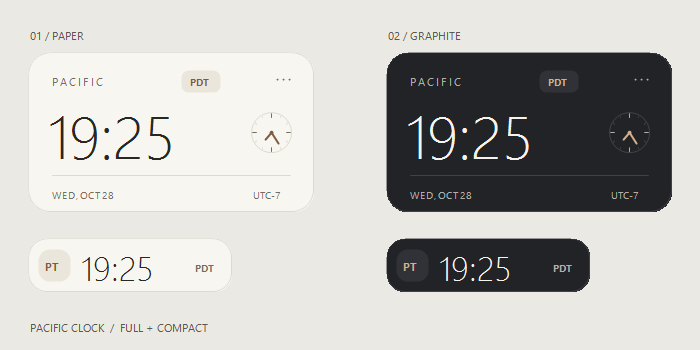
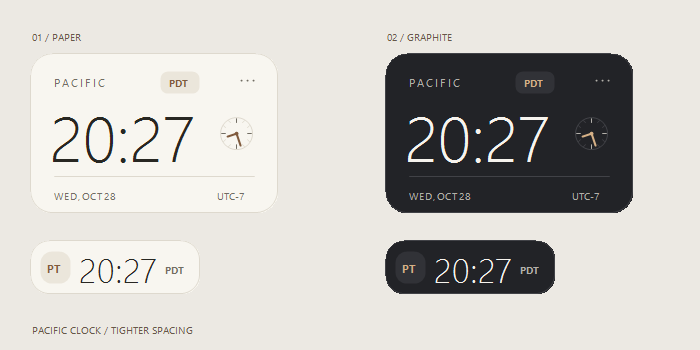
Tighten clock spacing and narrow both layouts

diff --git a/skills/pacific-clock/assets/source/PacificClock.cs b/skills/pacific-clock/assets/source/PacificClock.cs
@@ -292,7 +292,7 @@ internal sealed class ClockForm : Form
     private void ApplySize()
     {
         scale = dpiScale * (float)NormalizeZoom(settings.Zoom);
-        ClientSize = settings.Compact ? new Size(S(settings.Seconds ? 244 : 204), S(54)) : new Size(S(286), S(160));
+        ClientSize = settings.Compact ? new Size(S(settings.Seconds ? 202 : 170), S(54)) : new Size(S(248), S(160));
         optionsButton.Visible = !settings.Compact;
         optionsButton.SetBounds(Width - S(49), S(11), S(36), S(32));
         using (GraphicsPath path = Rounded(new Rectangle(0, 0, Width, Height), S(settings.Compact ? 19 : 22)))
@@ -328,23 +328,23 @@ internal sealed class ClockForm : Form
         string suffix = settings.TwelveHour ? pacific.ToString("tt", Program.English) : Program.ZoneLabel(currentUtc);
         if (settings.Compact)
         {
-            FillRound(g, new Rectangle(S(10), S(11), S(32), S(32)), 11, Badge);
+            FillRound(g, new Rectangle(S(10), S(11), S(30), S(32)), 11, Badge);
             Draw(g, "PT", 17, 21, 11, FontStyle.Bold, Accent);
-            DrawTime(g, time, 53, 6, settings.Seconds ? 31 : 34);
-            Draw(g, suffix, settings.Seconds ? 207 : 167, 23, 10, FontStyle.Bold, Muted);
+            DrawTime(g, time, 49, 6, settings.Seconds ? 31 : 34);
+            Draw(g, suffix, settings.Seconds ? 167 : 135, 23, 10, FontStyle.Bold, Muted);
         }
         else
         {
             DrawSpaced(g, "PACIFIC", 24, 22, 11, 2.1f, Muted);
-            FillRound(g, new Rectangle(S(153), S(18), S(39), S(22)), 7, Badge);
-            Draw(g, Program.ZoneLabel(currentUtc), 162, 23, 10, FontStyle.Bold, Accent);
-            DrawTime(g, time, 20, settings.Seconds ? 54 : 42, settings.Seconds ? 43 : 60);
-            DrawAnalog(g, pacific, 243, 80, 20);
-            if (settings.TwelveHour) Draw(g, suffix, 233, 105, 10, FontStyle.Bold, Muted);
+            FillRound(g, new Rectangle(S(130), S(18), S(39), S(22)), 7, Badge);
+            Draw(g, Program.ZoneLabel(currentUtc), 139, 23, 10, FontStyle.Bold, Accent);
+            DrawTime(g, time, 20, settings.Seconds ? 54 : 40, settings.Seconds ? 43 : 64);
+            DrawAnalog(g, pacific, 206, 80, 16);
+            if (settings.TwelveHour) Draw(g, suffix, 196, 103, 10, FontStyle.Bold, Muted);
             using (Pen line = new Pen(Edge, scale)) g.DrawLine(line, S(24), S(123), Width - S(24), S(123));
             string offset = Program.Pacific.GetUtcOffset(new DateTimeOffset(currentUtc)).TotalHours.ToString("+0;-0;0", CultureInfo.InvariantCulture);
             DrawSpaced(g, pacific.ToString("ddd, MMM dd", Program.English).ToUpperInvariant(), 24, 136, 10, 0.8f, Muted);
-            Draw(g, "UTC" + offset, 225, 136, 10, FontStyle.Regular, Muted);
+            Draw(g, "UTC" + offset, 187, 136, 10, FontStyle.Regular, Muted);
         }
     }
 
@@ -786,7 +786,7 @@ internal sealed class ClockForm : Form
             check(value.ClickThrough && (style & WS_EX_TRANSPARENT) != 0 && (style & 0x80000) != 0,
                 "menu re-enables layered click-through");
             compact.PerformClick();
-            check(!value.Compact && form.Width == form.S(286) && form.Height == form.S(160),
+            check(!value.Compact && form.Width == form.S(248) && form.Height == form.S(160),
                 "compact menu switches actual window dimensions");
             form.ShowLocator();
             style = GetWindowLong(form.Handle, -20);
@@ -799,7 +799,7 @@ internal sealed class ClockForm : Form
             value.Compact = true;
             value.Zoom = 0.5;
             form.ApplySize();
-            check(form.Width == (int)Math.Round(102 * form.dpiScale) && form.Height == (int)Math.Round(27 * form.dpiScale),
+            check(form.Width == (int)Math.Round(85 * form.dpiScale) && form.Height == (int)Math.Round(27 * form.dpiScale),
                 "50 percent compact scales both window dimensions");
             check(form.ResizeEdgesAt(new Point(form.Width - 2, form.Height / 2)) == 2
                 && form.ResizeEdgesAt(new Point(form.Width / 2, form.Height / 2)) == 0,
@@ -827,7 +827,7 @@ internal sealed class ClockForm : Form
                 "drag zoom lower limit and corrupt scale recovery");
             value.Seconds = true;
             form.ApplySize();
-            check(form.Width == form.S(244) && value.Zoom == 0.5, "seconds layout retains zoom");
+            check(form.Width == form.S(202) && value.Zoom == 0.5, "seconds layout retains zoom");
             using (StringReader oldSettings = new StringReader("<ClockSettings><Compact>true</Compact></ClockSettings>"))
                 check(((ClockSettings)new XmlSerializer(typeof(ClockSettings)).Deserialize(oldSettings)).Zoom == 1,
                     "settings from older versions retain 100 percent scale");

diff --git a/README.md b/README.md
@@ -41,7 +41,7 @@ npx skills add zycc853/pacific-clock-skill --skill pacific-clock -g -y -a codex
 - 左键拖动中间区域移动窗口，右键或点击 `···` 打开设置。
 - **缩放比例**：50%～200%，提供 50 / 65 / 75 / 85 / 100 / 125 / 150 / 200% 档位；拖动边缘或角落可连续等比缩放，自动保存大小和位置。
 - **外观主题**：暖白 `Paper` / 石墨 `Graphite`。
-- **精简模式**：更小的横向胶囊。
+- **精简模式**：170 × 54 的横向胶囊（显示秒为 202 × 54），时间与时区紧凑排列；完整卡片为 248 × 160。以上为 100% 缩放下的逻辑尺寸。
 - **恢复悬浮模式**：隐藏任务栏按钮，不抢键盘焦点。
 - **普通窗口模式**：在任务栏中显示，方便找回。
 - **鼠标穿透**：可通过托盘菜单或 `FindPacificClock.exe` 解除。
